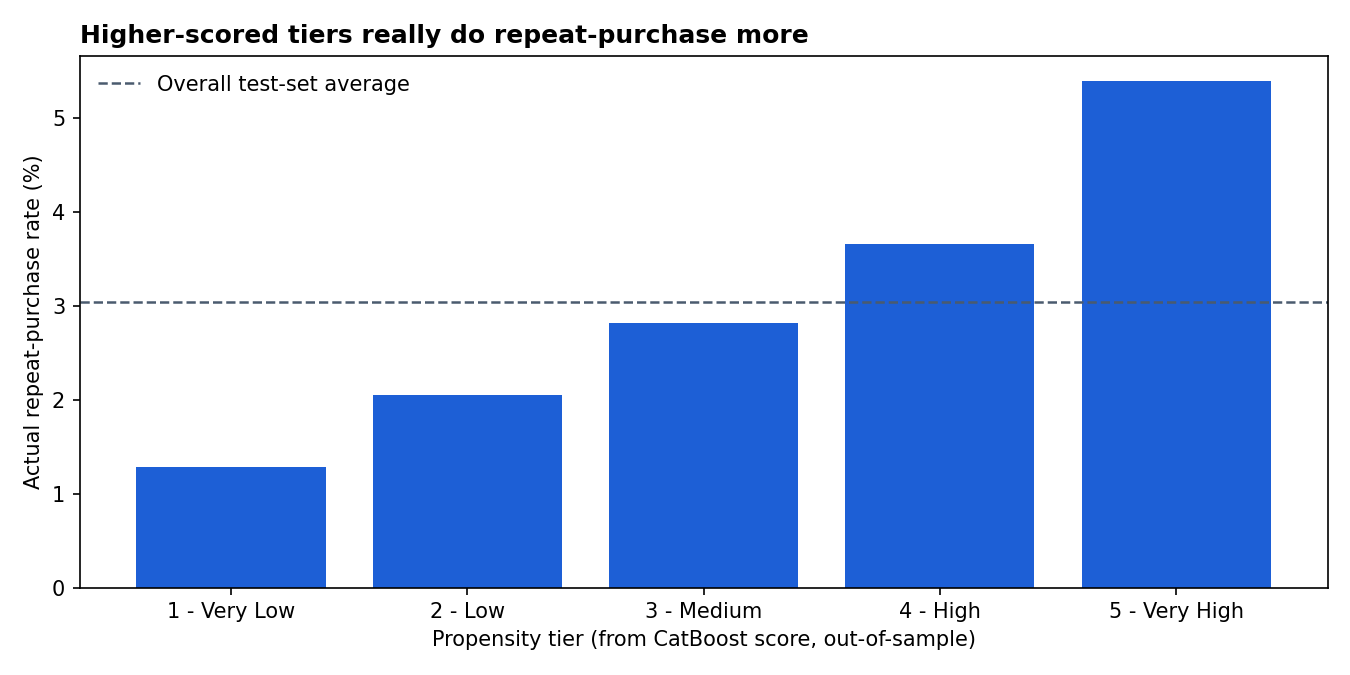
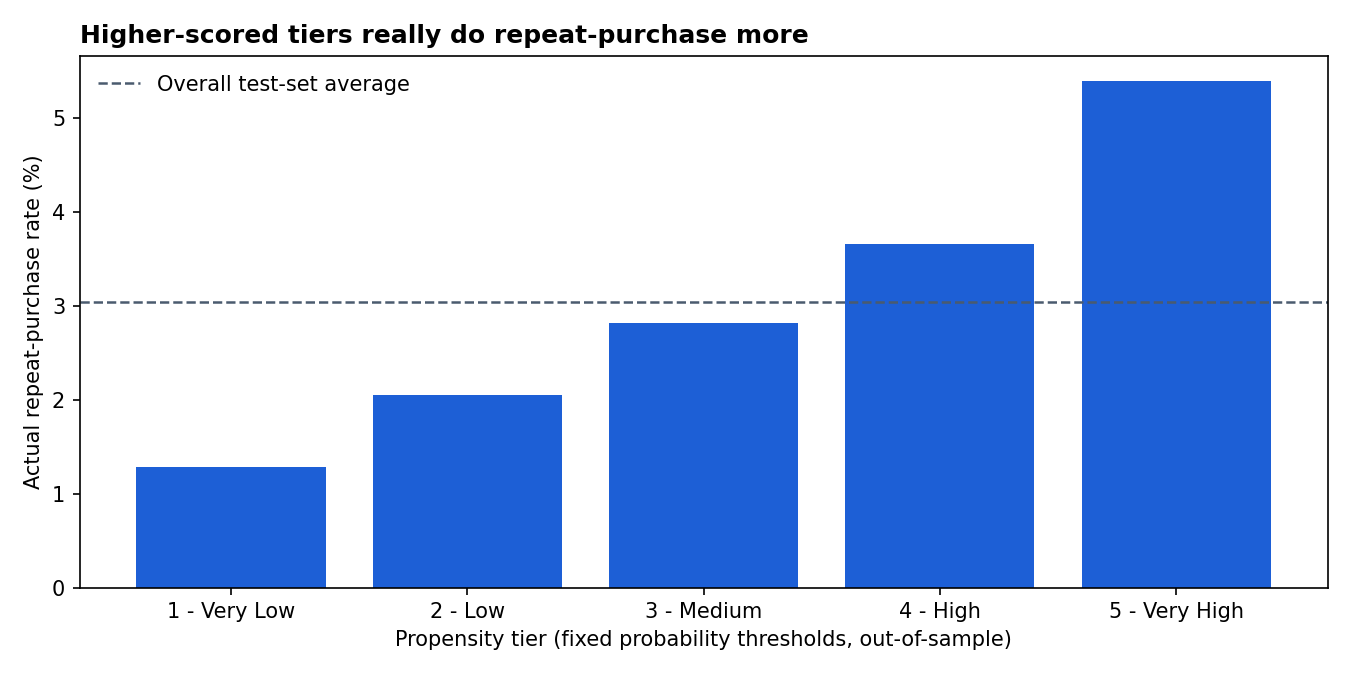
refactor: replace per-batch quantile tiers with fixed probability thresholds
Quantile tiering ("top 20% of this batch") recomputes tier boundaries
on whatever population is currently being scored, so the same customer
with the same predicted probability can land in a different tier
depending on who else is in that batch — unusable for tier-based
business rules that need to mean the same thing over time.

Tier boundaries are now frozen absolute probability cutoffs, computed
once from this reference population and reused as-is on any future
scoring batch. See tier_stability_analysis.py for a concrete
measurement of the instability this avoids.

Changed region(s): [[0.28, 0.9333, 0.7467, 0.9644]]

diff --git a/src/segment_customers.py b/src/segment_customers.py
@@ -1,18 +1,31 @@
 """Segment customers into 5 propensity tiers using the CatBoost
 out-of-sample predictions (the winning model from train_catboost.py).
 
+Tier boundaries are FIXED absolute probability cutoffs, computed once
+from this reference (test) population and then frozen — not
+percentile/quantile cutoffs recomputed on whatever batch happens to be
+scored. Quantile tiering ("top 20% of this batch") is unstable: the same
+customer, with the exact same predicted probability, can land in a
+different tier purely because of who else was in that scoring batch.
+Fixed thresholds keep "Tier 5" meaning the same probability range every
+time, which is what makes tier-based business rules (e.g. "call Tier 5
+within 24h") actually usable month over month. See
+tier_stability_analysis.py for a concrete before/after measurement of
+this instability.
+
 Deliberately scores only the held-out test set rather than refitting on
 the full population — every repeat-purchase rate reported per tier is
 therefore genuinely out-of-sample, not inflated by the model having
 seen those customers during training. In production you'd retrain on
-all available data before scoring new/current leads with this same
-tiering logic.
+all available data before scoring new/current leads, then apply these
+same frozen thresholds.
 """
 
 import json
 from pathlib import Path
 
 import matplotlib.pyplot as plt
+import numpy as np
 import pandas as pd
 
 PROCESSED_DIR = Path(__file__).resolve().parent.parent / "data" / "processed"
@@ -23,10 +36,24 @@ COLOR_ACCENT = "#1D5FD6"
 TIER_LABELS = ["1 - Very Low", "2 - Low", "3 - Medium", "4 - High", "5 - Very High"]
 
 
+def compute_fixed_thresholds(reference_proba: pd.Series) -> np.ndarray:
+    """Freeze quintile edges from a reference population as fixed cutoffs.
+
+    The inner edges come from this reference population's distribution,
+    but once computed they are constants — reused as-is on every future
+    scoring batch instead of being recomputed per batch.
+    """
+    _, edges = pd.qcut(reference_proba, 5, retbins=True, duplicates="drop")
+    edges = edges.copy()
+    edges[0], edges[-1] = -np.inf, np.inf
+    return edges
+
+
 def main() -> None:
     preds = pd.read_csv(PROCESSED_DIR / "catboost_test_predictions.csv")
 
-    preds["tier"] = pd.qcut(preds["y_proba"], 5, labels=TIER_LABELS)
+    fixed_edges = compute_fixed_thresholds(preds["y_proba"])
+    preds["tier"] = pd.cut(preds["y_proba"], bins=fixed_edges, labels=TIER_LABELS)
 
     tier_summary = (
         preds.groupby("tier", observed=True)
@@ -42,6 +69,7 @@ def main() -> None:
     print(f"Overall test repeat rate: {baseline_rate*100:.2f}%")
     print(f"Tier 5 (Very High) repeat rate: {top_tier_rate*100:.2f}% ({lift:.1f}x baseline)")
     print(f"Tier 1 (Very Low) repeat rate: {bottom_tier_rate*100:.2f}%")
+    print(f"Frozen tier thresholds (probability): {[round(e, 4) for e in fixed_edges]}")
 
     out_path = PROCESSED_DIR / "customer_segments.csv"
     preds.to_csv(out_path, index=False)
@@ -51,6 +79,8 @@ def main() -> None:
     metrics_path = OUTPUTS_DIR / "metrics.json"
     all_metrics = json.loads(metrics_path.read_text()) if metrics_path.exists() else {}
     all_metrics["segmentation"] = {
+        "method": "fixed_probability_thresholds",
+        "fixed_thresholds": [None if not np.isfinite(e) else round(float(e), 4) for e in fixed_edges],
         "baseline_repeat_rate": round(float(baseline_rate), 4),
         "tier_5_repeat_rate": round(float(top_tier_rate), 4),
         "tier_5_lift_vs_baseline": round(float(lift), 2),
@@ -70,7 +100,7 @@ def plot_tier_validation(tier_summary: pd.DataFrame, baseline_rate: float) -> No
     fig, ax = plt.subplots(figsize=(9, 4.5))
     ax.bar(tier_summary["tier"], tier_summary["repeat_rate"] * 100, color=COLOR_ACCENT)
     ax.axhline(baseline_rate * 100, color="#4A5B6E", linestyle="--", linewidth=1.2, label="Overall test-set average")
-    ax.set_xlabel("Propensity tier (from CatBoost score, out-of-sample)")
+    ax.set_xlabel("Propensity tier (fixed probability thresholds, out-of-sample)")
     ax.set_ylabel("Actual repeat-purchase rate (%)")
     ax.set_title("Higher-scored tiers really do repeat-purchase more", loc="left", fontsize=12, fontweight="bold")
     ax.legend(frameon=False)
